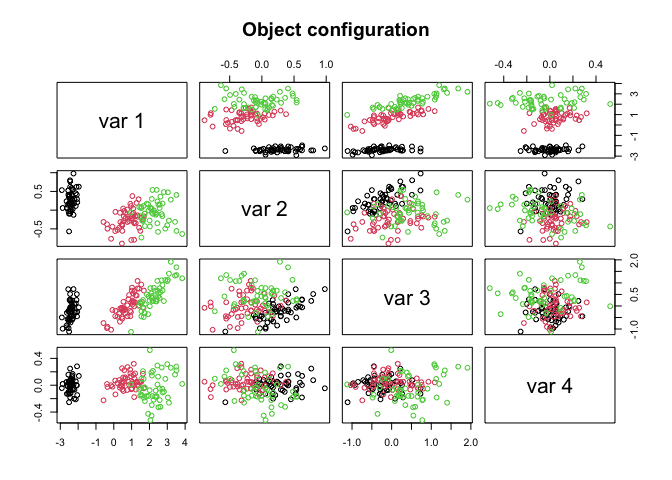
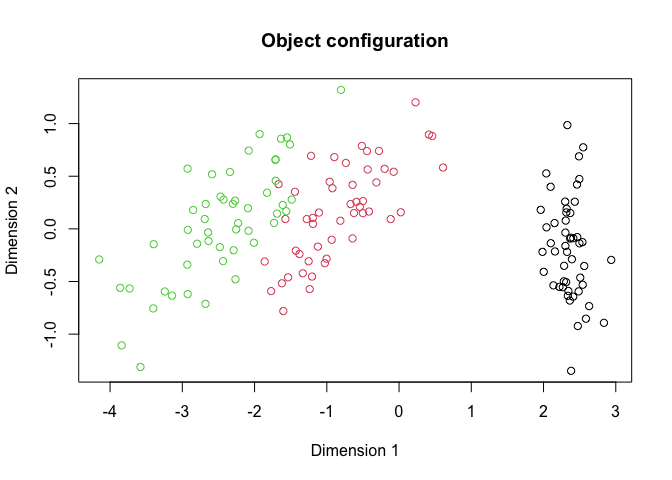
Update readme

diff --git a/README.md b/README.md
@@ -23,7 +23,8 @@ pak::pak("SamMorrissette/VIBMDS")
 
 ## Iris Example
 
-A simple example showing how to apply VIBMDS to the Iris dataset.
+A simple example showing how to apply VIBMDS to the Iris dataset for
+dimension reduction.
 
 ``` r
 library(VIBMDS)
@@ -41,53 +42,26 @@ prior_params <- list(scale_lambda = torch_tensor(25.0, device = device),
 
 # Run VIBMDS
 results <- VIBMDS::vi_bmds(iris_dist, 
-                           p = 4, 
+                           p = 2, 
                            prior_params = prior_params,
                            B = 1000, S = 10, max_iter = 5000, 
                            device = device)
-#> [1] "Iteration: 100 ELBO = 8998.509765625 LR = 0.1"
-#> [1] "Iteration: 200 ELBO = 16097.490234375 LR = 0.1"
-#> [1] "Iteration: 300 ELBO = 16676.392578125 LR = 0.1"
-#> [1] "Iteration: 400 ELBO = 14684.5517578125 LR = 0.1"
-#> [1] "Iteration: 500 ELBO = 16493.033203125 LR = 0.1"
-#> [1] "Iteration: 600 ELBO = 18632.197265625 LR = 0.1"
-#> [1] "Iteration: 700 ELBO = 16878.4453125 LR = 0.1"
-#> [1] "Iteration: 800 ELBO = 25462.18359375 LR = 0.05"
-#> [1] "Iteration: 900 ELBO = 27480.369140625 LR = 0.025"
-#> [1] "Iteration: 1000 ELBO = 31553.69921875 LR = 0.025"
-#> [1] "Iteration: 1100 ELBO = 33319.08984375 LR = 0.025"
-#> [1] "Iteration: 1200 ELBO = 33194.578125 LR = 0.025"
-#> [1] "Iteration: 1300 ELBO = 37051.14453125 LR = 0.0125"
-#> [1] "Iteration: 1400 ELBO = 38132.30078125 LR = 0.0125"
-#> [1] "Iteration: 1500 ELBO = 39482.921875 LR = 0.0125"
-#> [1] "Iteration: 1600 ELBO = 38295.19140625 LR = 0.0125"
-#> [1] "Iteration: 1700 ELBO = 41116.8671875 LR = 0.00625"
-#> [1] "Iteration: 1800 ELBO = 43245.86328125 LR = 0.00625"
-#> [1] "Iteration: 1900 ELBO = 43428.296875 LR = 0.00625"
-#> [1] "Iteration: 2000 ELBO = 46105.85546875 LR = 0.003125"
-#> [1] "Iteration: 2100 ELBO = 46111.1484375 LR = 0.003125"
-#> [1] "Iteration: 2200 ELBO = 45983.53125 LR = 0.003125"
-#> [1] "Iteration: 2300 ELBO = 46105.40625 LR = 0.003125"
-#> [1] "Iteration: 2400 ELBO = 47592.37109375 LR = 0.003125"
-#> [1] "Iteration: 2500 ELBO = 47942.79296875 LR = 0.003125"
-#> [1] "Iteration: 2600 ELBO = 48021.9609375 LR = 0.003125"
-#> [1] "Iteration: 2700 ELBO = 49398.30078125 LR = 0.003125"
-#> [1] "Iteration: 2800 ELBO = 48073.3046875 LR = 0.003125"
-#> [1] "Iteration: 2900 ELBO = 48739.03515625 LR = 0.003125"
-#> [1] "Iteration: 3000 ELBO = 48906.24609375 LR = 0.003125"
-#> [1] "Iteration: 3100 ELBO = 48476.17578125 LR = 0.003125"
-#> [1] "Iteration: 3200 ELBO = 49987.9921875 LR = 0.0015625"
-#> [1] "Iteration: 3300 ELBO = 51913.171875 LR = 0.0015625"
-#> [1] "Iteration: 3400 ELBO = 52676.35546875 LR = 0.0015625"
-#> [1] "Iteration: 3500 ELBO = 51194.5390625 LR = 0.0015625"
-#> [1] "Iteration: 3600 ELBO = 52948.59375 LR = 0.00078125"
-#> [1] "Iteration: 3700 ELBO = 53598.40625 LR = 0.00078125"
-#> [1] "Iteration: 3800 ELBO = 53041.19921875 LR = 0.00078125"
-#> [1] "Iteration: 3900 ELBO = 53082.6796875 LR = 0.00078125"
-#> [1] "Iteration: 4000 ELBO = 52961.7890625 LR = 0.000390625"
-#> [1] "Iteration: 4100 ELBO = 55028.3828125 LR = 0.000390625"
-#> [1] "Iteration: 4200 ELBO = 54948.3828125 LR = 0.000390625"
-#> [1] "Iteration: 4300 ELBO = 54227.83203125 LR = 0.0001953125"
+#> [1] "Iteration: 100 ELBO = 904.09033203125 LR = 0.1"
+#> [1] "Iteration: 200 ELBO = 3394.22729492188 LR = 0.1"
+#> [1] "Iteration: 300 ELBO = 2825.93603515625 LR = 0.1"
+#> [1] "Iteration: 400 ELBO = 2557.43774414062 LR = 0.1"
+#> [1] "Iteration: 500 ELBO = 3260.68359375 LR = 0.05"
+#> [1] "Iteration: 600 ELBO = 3261.50341796875 LR = 0.025"
+#> [1] "Iteration: 700 ELBO = 2423.28564453125 LR = 0.025"
+#> [1] "Iteration: 800 ELBO = 3558.01879882812 LR = 0.0125"
+#> [1] "Iteration: 900 ELBO = 3797.92529296875 LR = 0.00625"
+#> [1] "Iteration: 1000 ELBO = 3288.77856445312 LR = 0.003125"
+#> [1] "Iteration: 1100 ELBO = 4586.9248046875 LR = 0.0015625"
+#> [1] "Iteration: 1200 ELBO = 4351.2119140625 LR = 0.0015625"
+#> [1] "Iteration: 1300 ELBO = 5367.4130859375 LR = 0.0015625"
+#> [1] "Iteration: 1400 ELBO = 2538.28344726562 LR = 0.00078125"
+#> [1] "Iteration: 1500 ELBO = 2477.47216796875 LR = 0.000390625"
+#> [1] "Iteration: 1600 ELBO = 4303.85400390625 LR = 0.0001953125"
 #> [1] "Stopping: LR at min since there has been no improvement for 100 iterations"
 ```
 
@@ -99,7 +73,8 @@ config <- as.matrix(var_samples$x$mean(dim = 1))
 
 ``` r
 # Plot the final configuration
-pairs(config, col = iris$Species, main = "Object configuration")
+plot(config, col = iris$Species, main = "Object configuration",
+     xlab = "Dimension 1", ylab = "Dimension 2")
 ```
 
 <img src="man/figures/README-unnamed-chunk-4-1.png" width="100%" />
